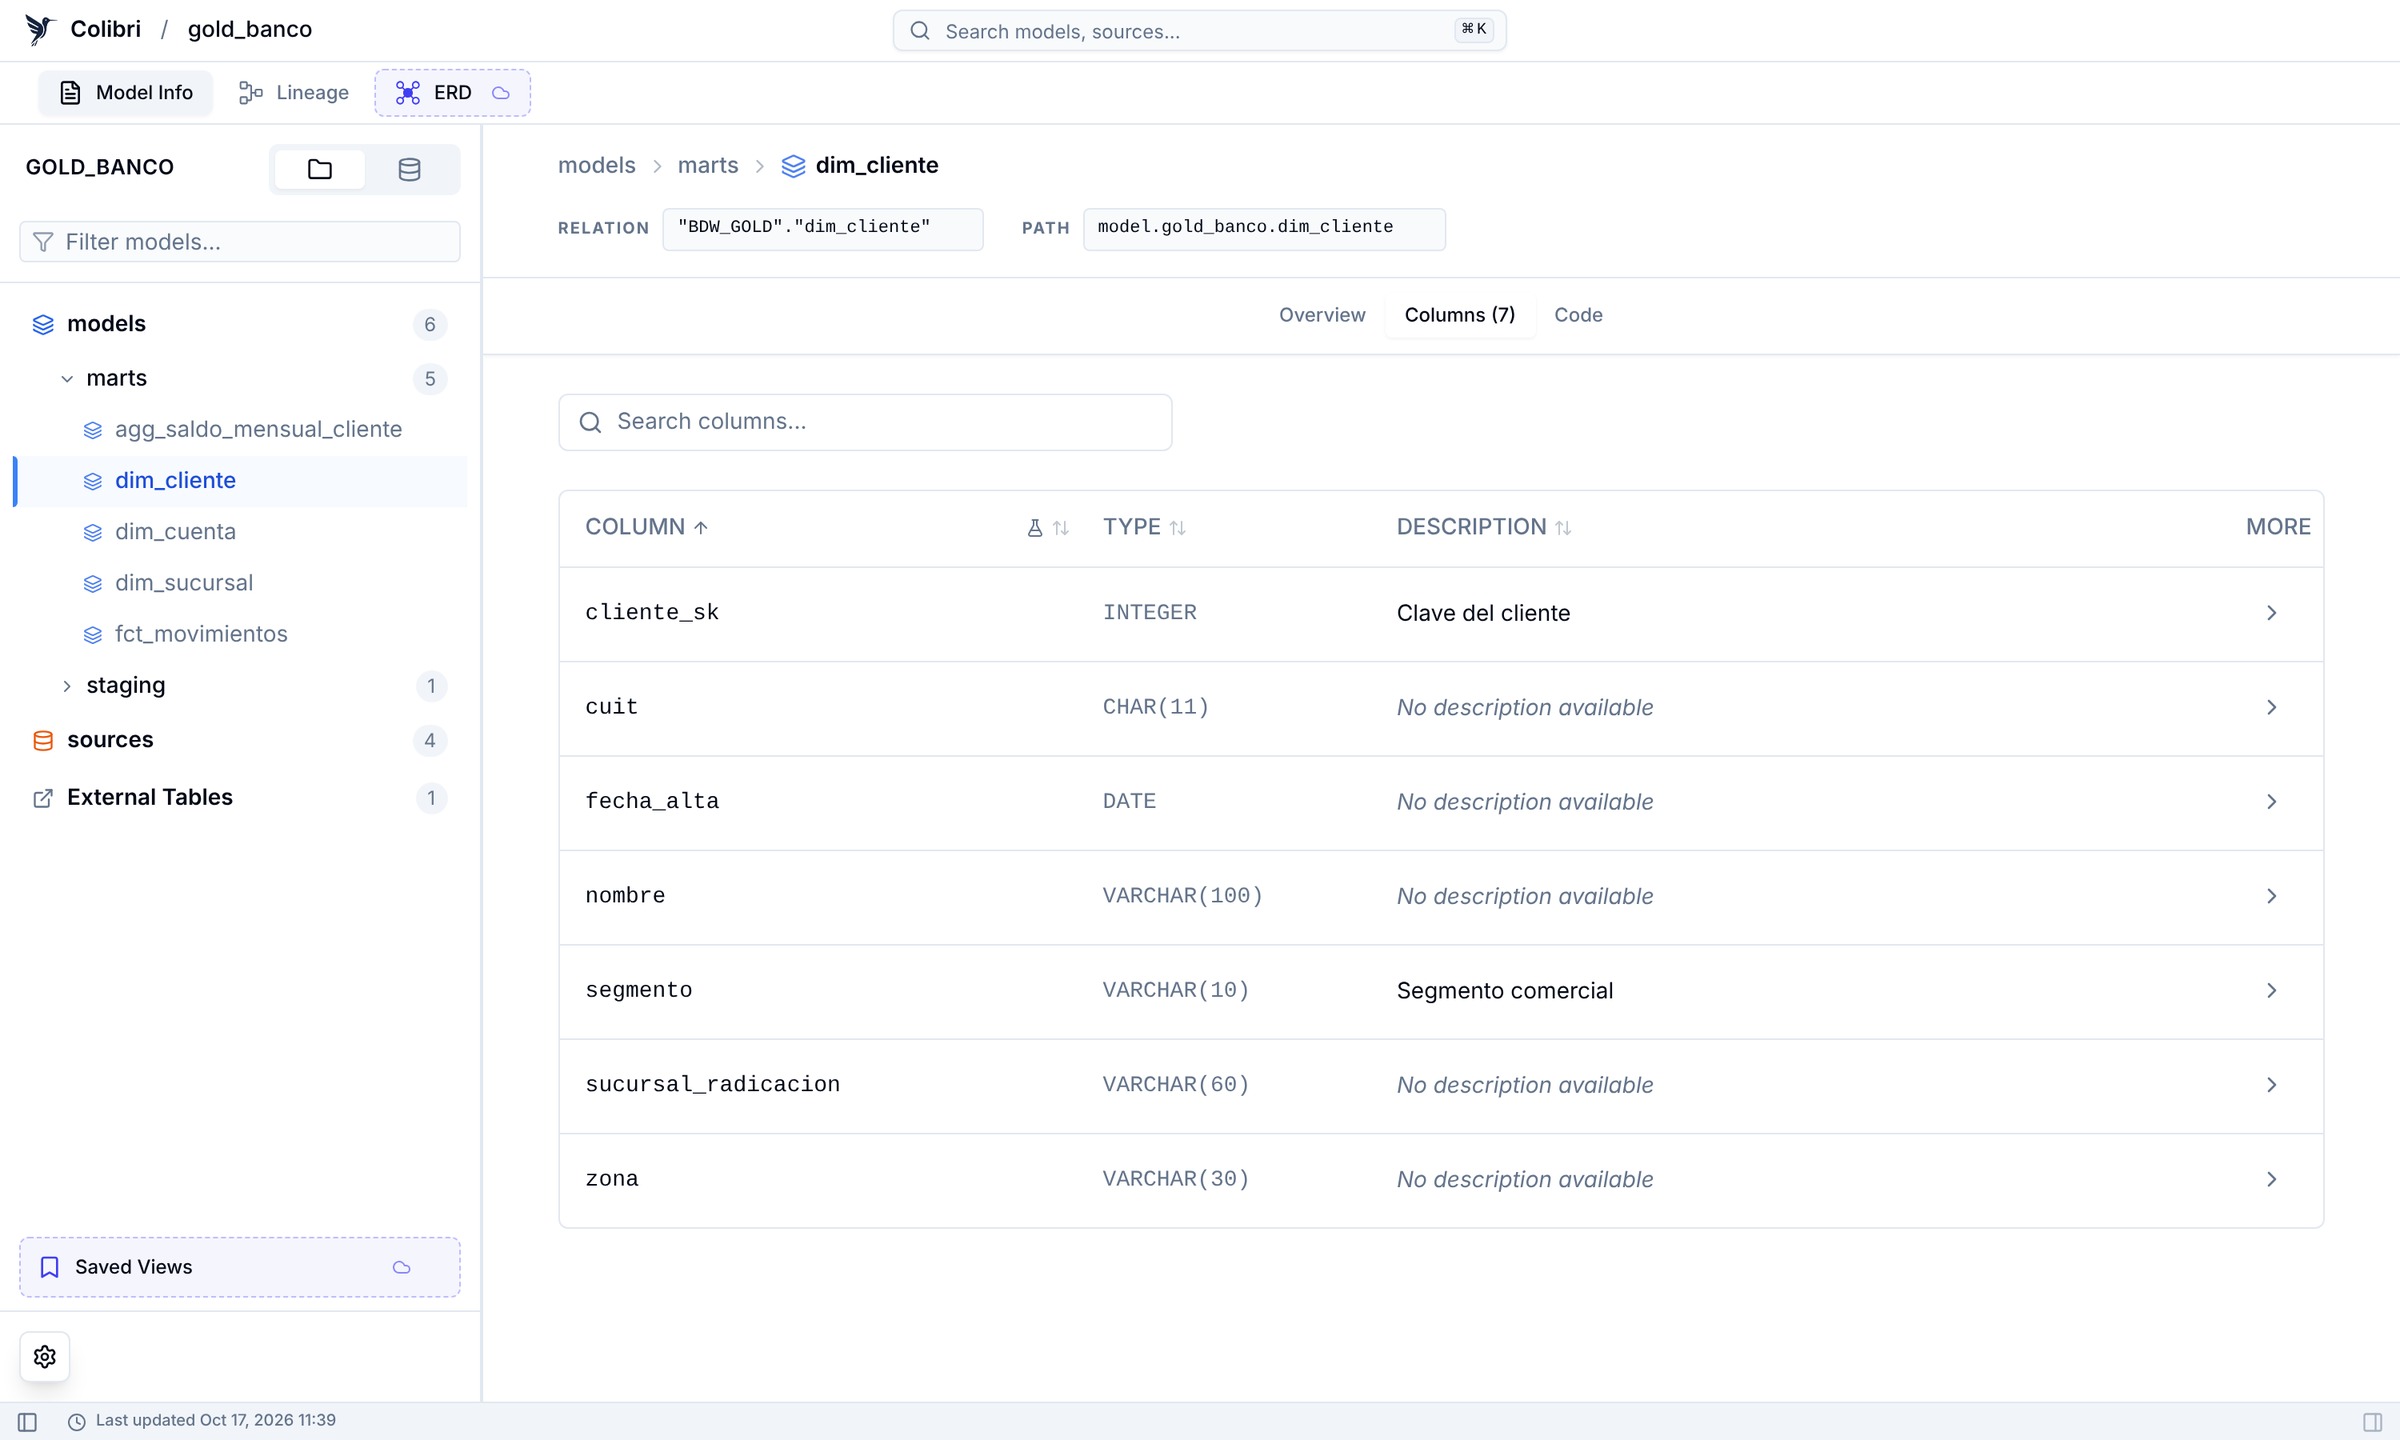
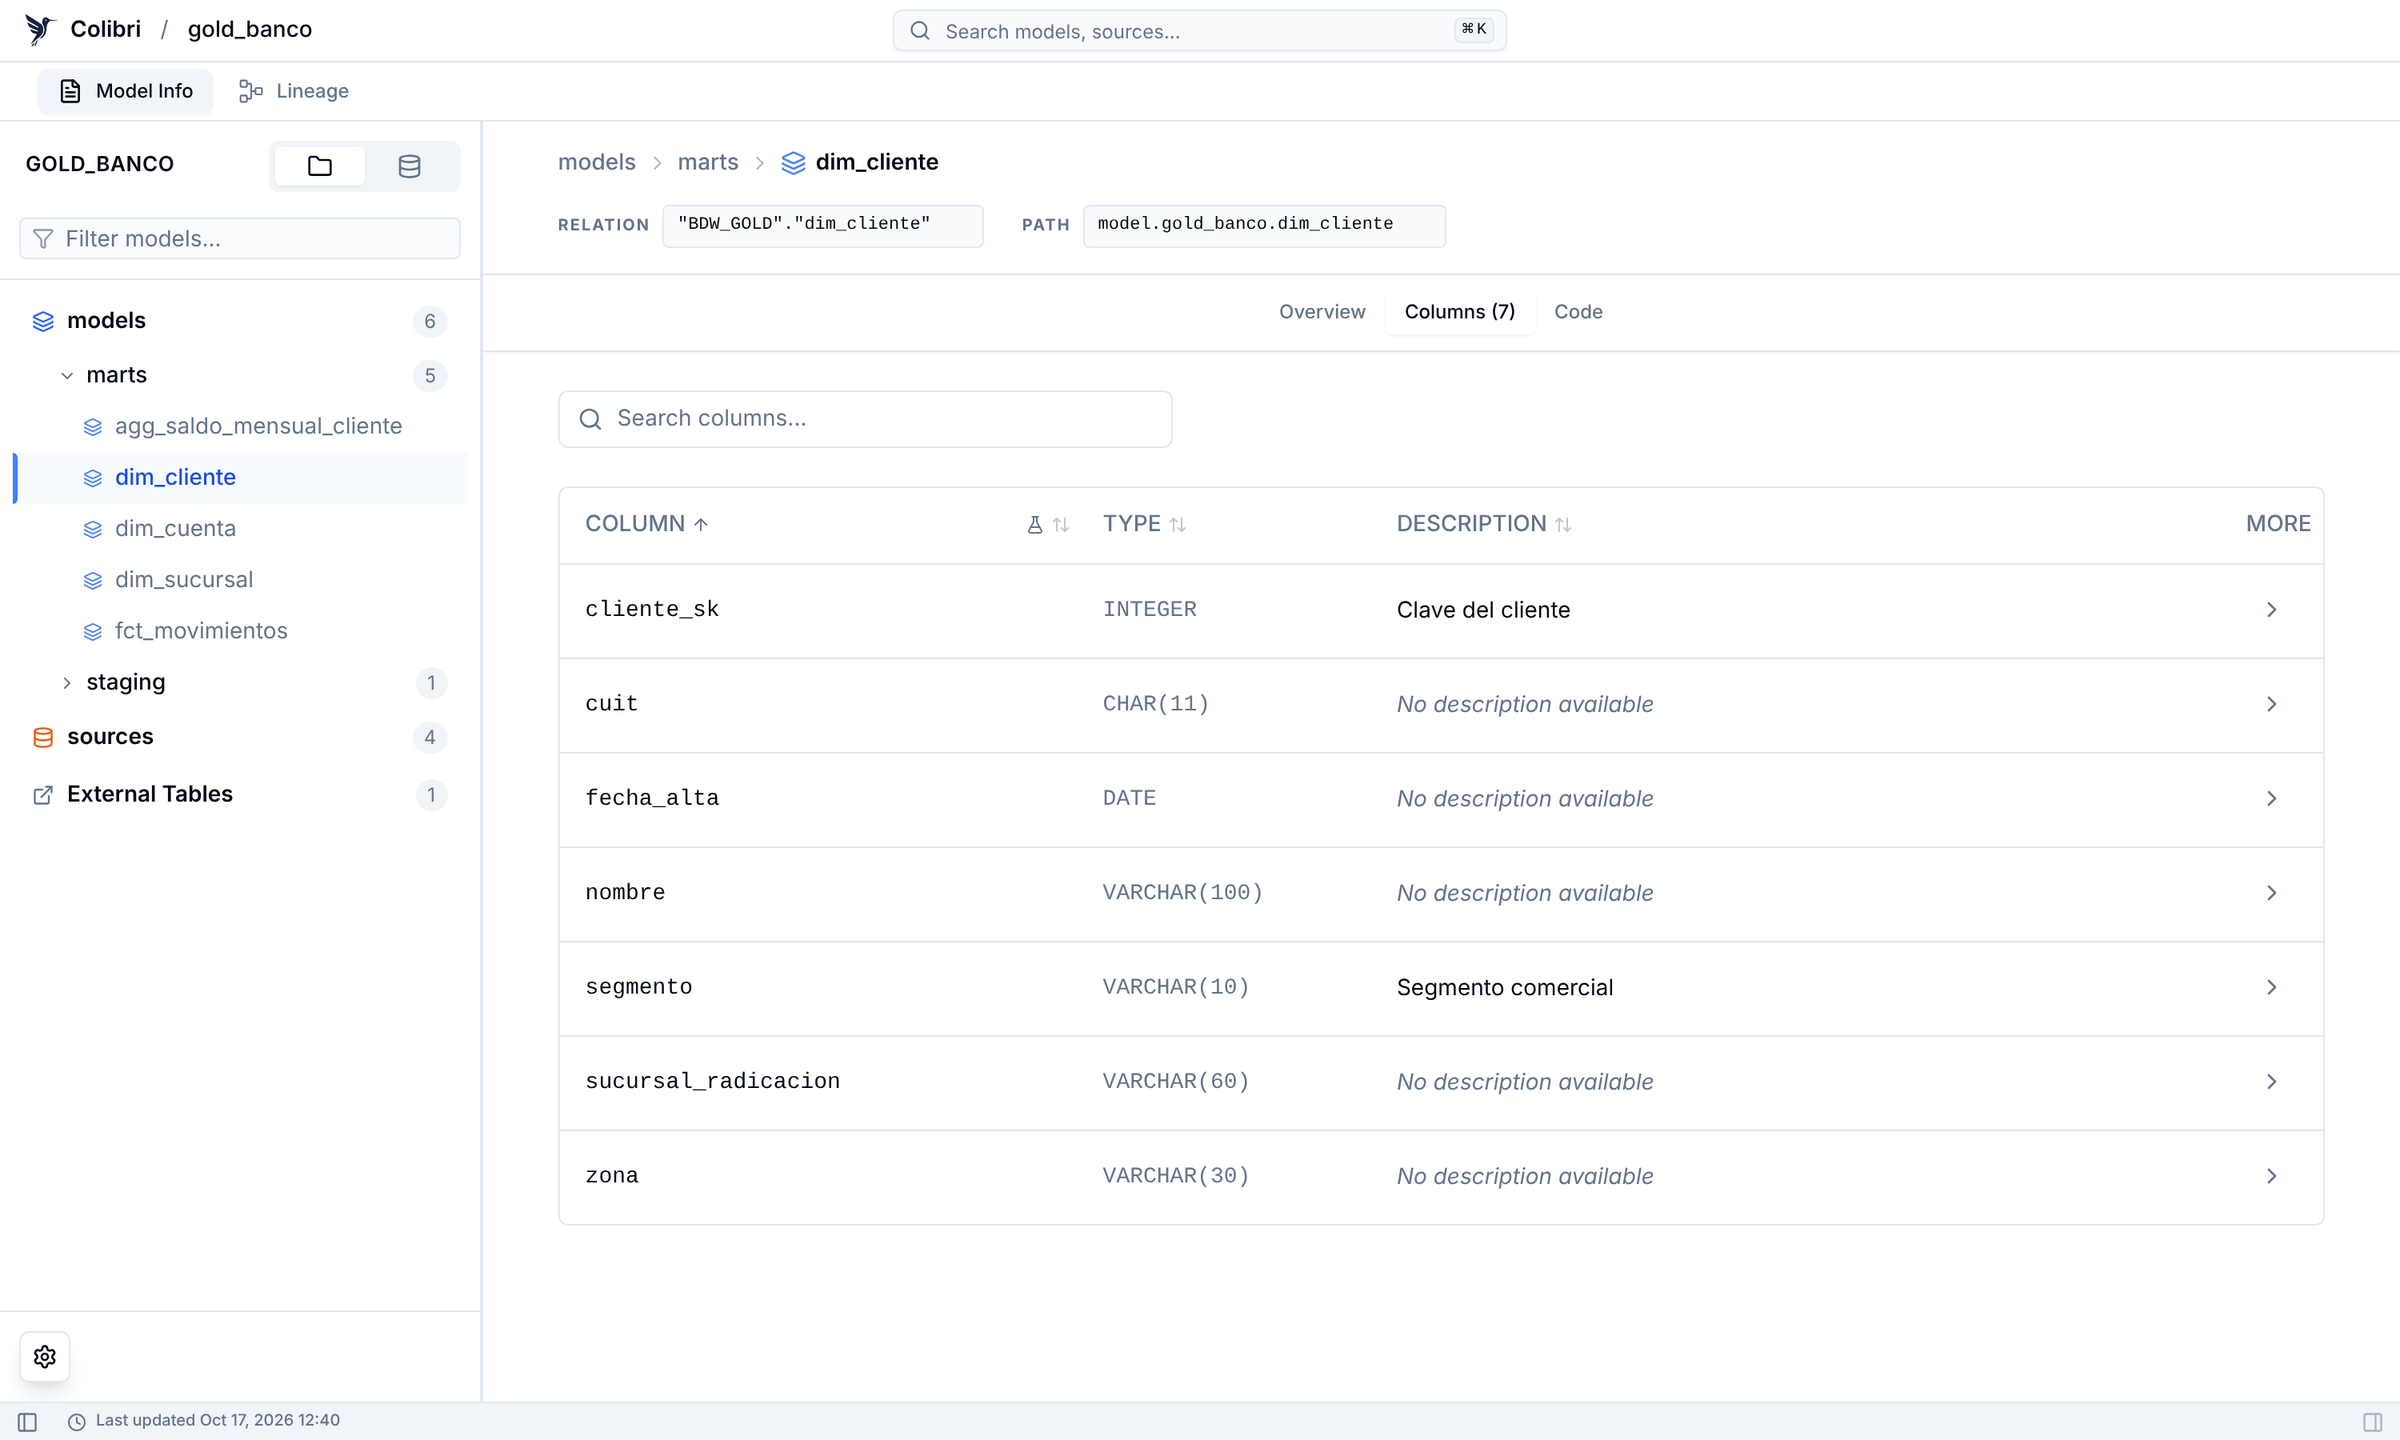
Hide Colibri Cloud upsell buttons in the report
The bundled UI shows ERD, Saved Views and Git Blame entries that only
link to the commercial Colibri Cloud site. Inject a small stylesheet
into every generated report that hides them, matched by their
utm_source=colibri_oss links. The logo link is kept as attribution.
The UI bundle itself is unchanged.

Retake the README screenshots to match.

Claude-Session: https://claude.ai/code/session_01Q5SGHKhcraviKVLPfUYto6

diff --git a/src/dbt_colibri/report/generator.py b/src/dbt_colibri/report/generator.py
@@ -711,6 +711,21 @@ class DbtColibriReportGenerator:
 
 
 
+# The bundled UI advertises features of the commercial Colibri Cloud product
+# (ERD, Saved Views, Git Blame). They only link to colibri-data.com and do
+# nothing in this report, so hide them. Each one is an <a> whose href carries
+# utm_source=colibri_oss; the logo link uses the same tag but is attribution,
+# not a feature, so it stays.
+_HIDE_CLOUD_FEATURES_CSS = (
+    "<style id=\"colibri-teradata-hide-cloud\">"
+    'a[href*="utm_source=colibri_oss"]:not([href*="utm_content=logo"]),'
+    ':has(> a[href*="utm_content=saved_views"]),'
+    ':has(> a[href*="utm_content=git_blame"])'
+    "{display:none!important}"
+    "</style>"
+)
+
+
 def inject_data_into_html(
     data: dict,
     template_html_path: str = "dist/index.html",
@@ -749,6 +764,7 @@ def inject_data_into_html(
 
     with open(output_html_path, "w", encoding="utf-8") as out_f:
         out_f.write(template_html[:insert_at])
+        out_f.write(_HIDE_CLOUD_FEATURES_CSS)
         # Inject telemetry opt-out flag before data so it's set when the app boots
         if disable_telemetry:
             out_f.write("<script>window.colibriTelemetry = false;</script>")

diff --git a/tests/test_teradata.py b/tests/test_teradata.py
@@ -227,3 +227,21 @@ def test_demo_project_generates_clean_lineage():
         ("source.gold_banco.stg.movimientos", "tipo_mov_cd"),
         ("_HARDCODED_REF___bdw_ref.tipo_cambio", "cotizacion"),
     }
+
+
+def test_report_hides_cloud_upsell_features(tmp_path):
+    manifest, catalog = build_artifacts()
+    (tmp_path / "manifest.json").write_text(json.dumps(manifest))
+    (tmp_path / "catalog.json").write_text(json.dumps(catalog))
+    out = tmp_path / "dist"
+    result = CliRunner().invoke(cli, [
+        "generate",
+        "--manifest", str(tmp_path / "manifest.json"),
+        "--catalog", str(tmp_path / "catalog.json"),
+        "--output-dir", str(out),
+    ])
+    assert result.exit_code == 0, result.output
+    head = (out / "index.html").read_text().split("</head>")[0]
+    assert 'id="colibri-teradata-hide-cloud"' in head
+    for feature in ("saved_views", "git_blame"):
+        assert f'utm_content={feature}' in head

diff --git a/README.md b/README.md
@@ -135,6 +135,8 @@ colibri generate --manifest target/manifest.json --catalog target/catalog.json -
 | `--debug` | apagado | Logging detallado |
 | `--enable-telemetry` | apagado | Ver abajo |
 
+Todo lo que muestra el reporte es gratuito: los botones de funciones pagas del proyecto original vienen ocultos.
+
 Por defecto **no hace ninguna llamada a internet**: no consulta PyPI y el reporte no envía telemetría. Si querés mandarle estadísticas anónimas al proyecto original, agregá `--enable-telemetry`.
 
 ## Publicarlo en cada deploy
@@ -177,6 +179,7 @@ colibri generate --manifest docs/demo/target/manifest.json \
 - Atribuye bien los ephemeral referenciados con alias, también en joins y filtros.
 - Agrupa las tablas externas bajo su base de datos en el árbol.
 - Sin chequeo de versión contra PyPI y con telemetría apagada por defecto.
+- Oculta los botones de funciones pagas de Colibri Cloud (ERD, Saved Views, Git Blame), que en el original solo llevan a su página comercial.
 
 ## Limitaciones
 
